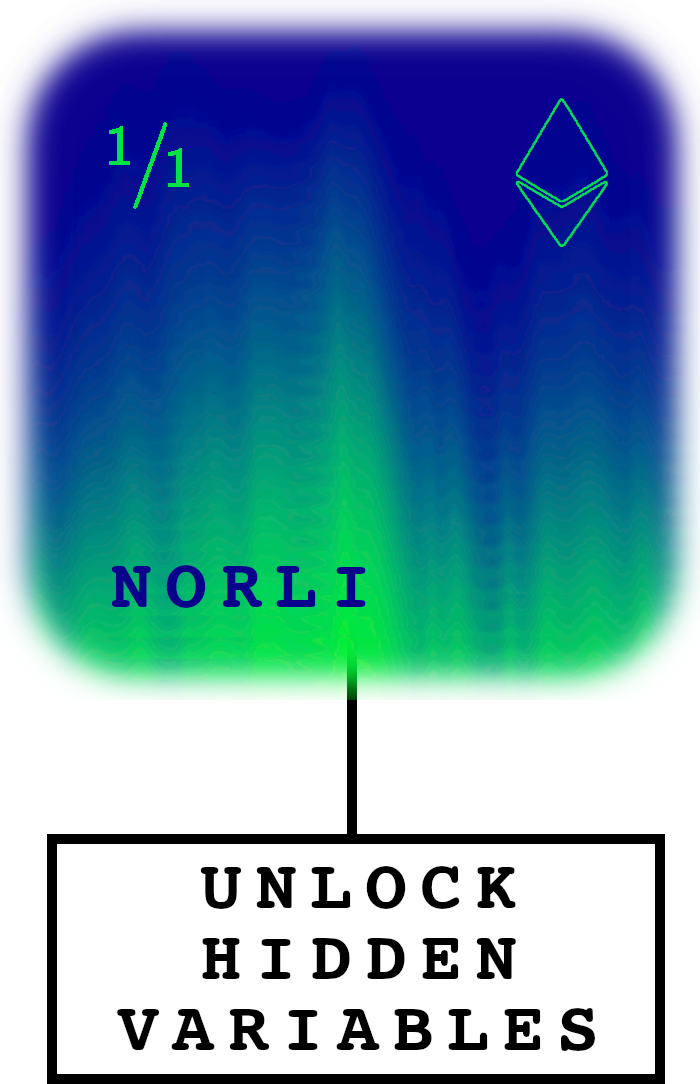
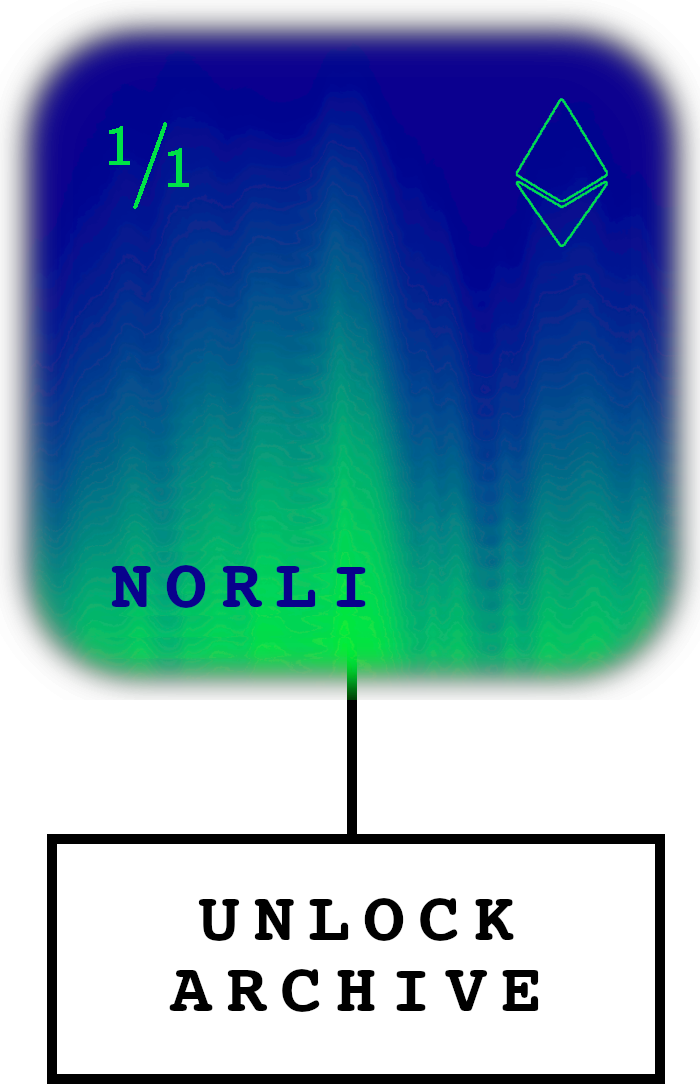
linking NORLI archive to index

Changed region(s): [[0.0, 0.0, 0.99, 0.6393], [0.15, 0.7915, 0.87, 0.9742]]

diff --git a/HEADER.html b/HEADER.html
@@ -17,7 +17,7 @@
         <a class="box-link" style="height: 75px; width:130px; top: 110px; left: 450px;" href=https://vault.fan/martin_gerber target="_blank"></a>
         <a class="box-link" style="height: 150px; width:125px; top: 70px; left: 620px;" href=https://vault.fan/martin_gerber target="_blank"></a>
         <a class="box-link" style="height: 190px; width:190px; top: 600px; left: 0px;" href=https://opensea.io/collection/norli target="_blank"></a>
-        <a class="box-link" style="height: 70px; width:170px; top: 835px; left: 10px;" href=https://koji.to/k/6LtK target="_blank"></a>
+        <a class="box-link" style="height: 70px; width:170px; top: 835px; left: 10px;" href=GATE.html target="_blank"></a>
         <a class="box-link" style="height: 200px; width:200px; top: 650px; left: 300px;" href=https://mintsongs.com/songs/2052 target="_blank"></a>
         <a class="box-link" style="height: 190px; width:190px; top: 650px; left: 580px;" href=https://martingerber.holaplex.com target="_blank"></a>
     </div>
